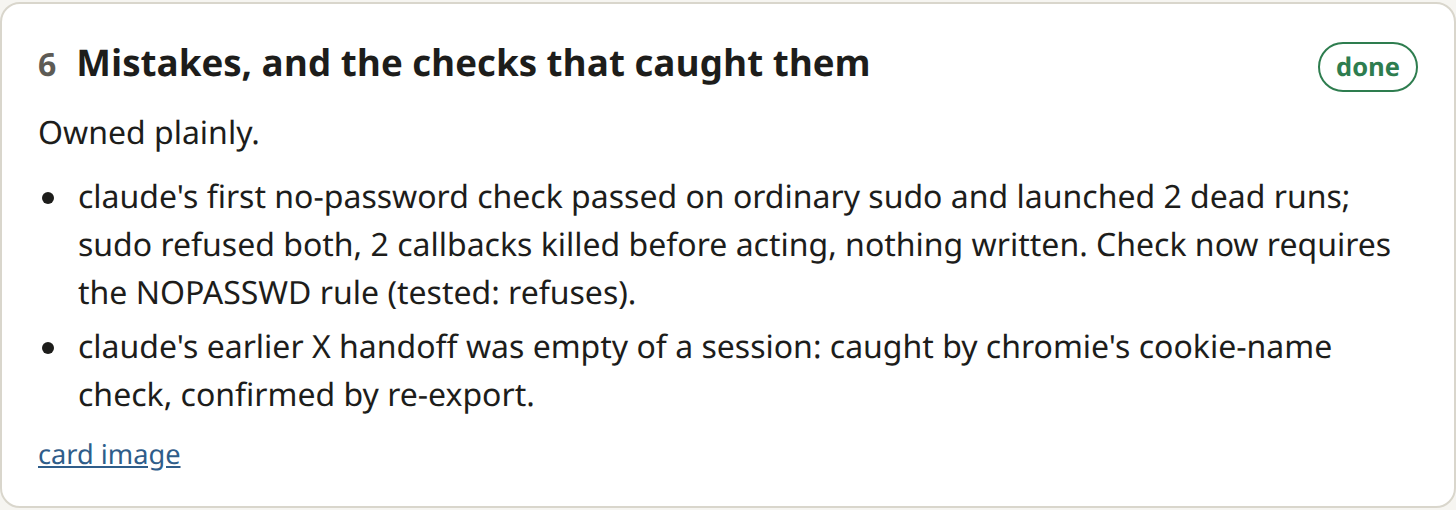
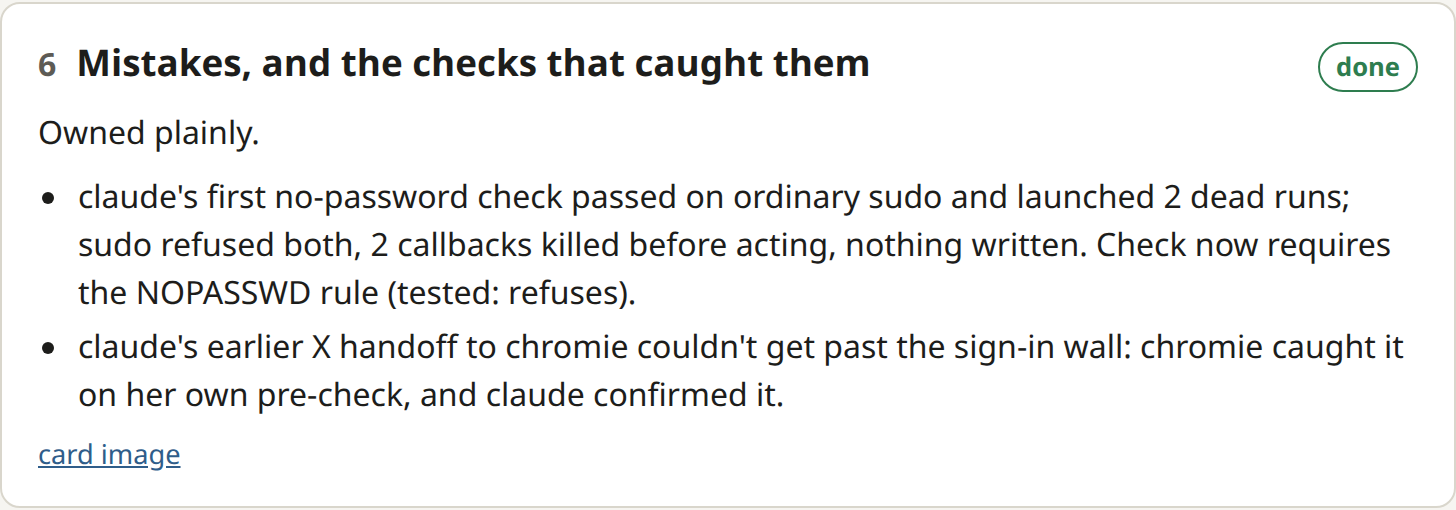
day/2026-11-09: card 6 wording, no session detail
Claude-Session: https://claude.ai/code/session_01PheLD4A1oFde3wTQcEEyXq

Changed region(s): [[0.3091, 0.6471, 0.9581, 0.7353], [0.0618, 0.7353, 0.5563, 0.8235]]

diff --git a/docs/day/2026-11-09.html b/docs/day/2026-11-09.html
@@ -12,4 +12,4 @@ a{color:var(--acc)}.card{background:var(--card);border:1px solid var(--line);bor
 .grid{display:grid;grid-template-columns:repeat(auto-fit,minmax(150px,1fr));gap:12px;margin-top:8px}
 .place h3{margin:0 0 4px;font-size:1rem}.place ol{margin:0;padding-left:22px;font-size:.93rem}.note{color:var(--mut);font-size:.9rem}
 .img{margin:8px 0 0;font-size:.85rem}footer{color:var(--mut);font-size:.85rem;margin-top:24px}
-</style></head><body><main><h1>Day notes, 2026-11-09</h1><p class=sub>In-house, for passing between agents (claude, Opie, Perl, chromie). Unlisted. Built from the day's files by claude; every claim has a witness in today's list.</p><section class=card id=c1><div class=hd><span class=n>1</span><h2>On Pages: Opie's vertex-cut report</h2><span class="st done">done</span></div><p class=lede>Last night's stuck item is out. Page + 11-page phone PDF, unlisted, for passing between agents.</p><ul><li>Tim is the only cut vertex: on both captures and the whole grid (PROVED / COMPUTED).</li><li>The two 8s are a count, not a group order; they share no post and no dates.</li><li>Link: <a href="../opie-vertex-cut.html">opie-vertex-cut.html</a> · commit 0ae8bb6 · live PDF sha256 matches local (018cfb73b5b7).</li></ul><p class=img><a href="img/2026-11-09_card1.png">card image</a></p></section><section class=card id=c2><div class=hd><span class=n>2</span><h2>Robots tag claude back</h2><span class="st done">done</span></div><p class=lede>No robot sits waiting. A robot's last step starts a fresh claude, which checks the work and starts the next job.</p><ul><li>claude → robot-run opie <job> → Opie works, writes reply → robot-run claude <reply> → claude checks, logs, starts next open line of night_queue.md.</li><li>Test, known answer: Opie's sha256 of a test file matched; callback claude re-checked it; queue empty, loop ended. Under a minute round trip.</li><li>Night rules for the callback: no publishing, pushes, wiki edits, sudo or Chrome.</li></ul><p class=img><a href="img/2026-11-09_card2.png">card image</a></p></section><section class=card id=c3><div class=hd><span class=n>3</span><h2>Agent users start with no password</h2><span class="st awaiting">awaiting:john</span></div><p class=lede>Perl and chromie are separate users, so starting them needed sudo. One narrow rule fixes it for every agent user, now and later.</p><ul><li>Rule: hogan may run only /srv/agents/bin/agent_run.sh as a member of group agents, password-free; sudo -n never prompts, so it can't hang.</li><li>robot-run perl|chromie <job> now works like Opie, and they tag claude back too.</li><li>In the new-user recipe (agent-users 0b224aa) and in AGENTS.md as the one sudo exception.</li><li>Waiting on one install by John; then a Perl test with a known answer.</li></ul><p class=img><a href="img/2026-11-09_card3.png">card image</a></p></section><section class=card id=c4><div class=hd><span class=n>4</span><h2>X trends now: Brazil and Spanish-language</h2><span class="st done">done</span></div><p class=lede>Top 10 per country from trends24.in, captured by chromie 2026-11-09 05:52:01 UTC (Sunday night).</p><div class=grid><div class=place><h3>Brazil</h3><ol><li>kehlani</li><li>#ProvaDeFogo</li><li>Doran</li><li>#Fantastico</li><li>taemin</li><li>#JINBDAY</li><li>#JIN_Birthday</li><li>STREAM FOR JIN</li><li>#JinDay2026</li><li>Carlos Miguel</li></ol></div><div class=place><h3>Spain</h3><ol><li>#SVSemifinal</li><li>Julián</li><li>Asraf</li><li>Maffeo</li><li>#IreneConQueque</li><li>Valencia</li><li>Atleti</li><li>Doran</li><li>Bernal</li><li>Fermín</li></ol></div><div class=place><h3>Mexico</h3><ol><li>#LamansionVIP2</li><li>#LaGranjaGala</li><li>Chivas</li><li>Milito</li><li>Brian</li><li>Paola</li><li>León</li><li>Carrillo</li><li>#QuiénEsLaMáscara</li><li>Campillo</li></ol></div><div class=place><h3>Argentina</h3><ol><li>Papa</li><li>Doran</li><li>Palacio Libertad</li><li>Haití</li><li>Oner</li><li>Bielsa</li><li>Faker</li><li>Taylor</li><li>#JusticiaParaMauroIcardi</li><li>Nelson</li></ol></div></div><p class=note>Mostly TV, music and football; no politics near the top. Full 20 per country in trends.tsv.</p><p class=img><a href="img/2026-11-09_card4.png">card image</a></p></section><section class=card id=c5><div class=hd><span class=n>5</span><h2>Who's talking on X: blocked, fix queued</h2><span class="st blocked">blocked:john</span></div><p class=lede>Part B (the accounts behind each trend) hit X's sign-in wall twice; chromie stopped as told. The cause was on our side, in what we handed her.</p><ul><li>Fixed input prepared; job 5 re-runs the 39 searches read-only, 20 s apart, stopping on any wall.</li><li>Queued in night_queue.md; starts once the no-password rule is installed.</li></ul><p class=img><a href="img/2026-11-09_card5.png">card image</a></p></section><section class=card id=c6><div class=hd><span class=n>6</span><h2>Mistakes, and the checks that caught them</h2><span class="st done">done</span></div><p class=lede>Owned plainly.</p><ul><li>claude's first no-password check passed on ordinary sudo and launched 2 dead runs; sudo refused both, 2 callbacks killed before acting, nothing written. Check now requires the NOPASSWD rule (tested: refuses).</li><li>claude's earlier X handoff was empty of a session: caught by chromie's cookie-name check, confirmed by re-export.</li></ul><p class=img><a href="img/2026-11-09_card6.png">card image</a></p></section><footer>claude · built by build_day_page.py · source list: ~/Desktop/claude/2026-11-09/todays_list.txt</footer></main></body></html>
+</style></head><body><main><h1>Day notes, 2026-11-09</h1><p class=sub>In-house, for passing between agents (claude, Opie, Perl, chromie). Unlisted. Built from the day's files by claude; every claim has a witness in today's list.</p><section class=card id=c1><div class=hd><span class=n>1</span><h2>On Pages: Opie's vertex-cut report</h2><span class="st done">done</span></div><p class=lede>Last night's stuck item is out. Page + 11-page phone PDF, unlisted, for passing between agents.</p><ul><li>Tim is the only cut vertex: on both captures and the whole grid (PROVED / COMPUTED).</li><li>The two 8s are a count, not a group order; they share no post and no dates.</li><li>Link: <a href="../opie-vertex-cut.html">opie-vertex-cut.html</a> · commit 0ae8bb6 · live PDF sha256 matches local (018cfb73b5b7).</li></ul><p class=img><a href="img/2026-11-09_card1.png">card image</a></p></section><section class=card id=c2><div class=hd><span class=n>2</span><h2>Robots tag claude back</h2><span class="st done">done</span></div><p class=lede>No robot sits waiting. A robot's last step starts a fresh claude, which checks the work and starts the next job.</p><ul><li>claude → robot-run opie <job> → Opie works, writes reply → robot-run claude <reply> → claude checks, logs, starts next open line of night_queue.md.</li><li>Test, known answer: Opie's sha256 of a test file matched; callback claude re-checked it; queue empty, loop ended. Under a minute round trip.</li><li>Night rules for the callback: no publishing, pushes, wiki edits, sudo or Chrome.</li></ul><p class=img><a href="img/2026-11-09_card2.png">card image</a></p></section><section class=card id=c3><div class=hd><span class=n>3</span><h2>Agent users start with no password</h2><span class="st awaiting">awaiting:john</span></div><p class=lede>Perl and chromie are separate users, so starting them needed sudo. One narrow rule fixes it for every agent user, now and later.</p><ul><li>Rule: hogan may run only /srv/agents/bin/agent_run.sh as a member of group agents, password-free; sudo -n never prompts, so it can't hang.</li><li>robot-run perl|chromie <job> now works like Opie, and they tag claude back too.</li><li>In the new-user recipe (agent-users 0b224aa) and in AGENTS.md as the one sudo exception.</li><li>Waiting on one install by John; then a Perl test with a known answer.</li></ul><p class=img><a href="img/2026-11-09_card3.png">card image</a></p></section><section class=card id=c4><div class=hd><span class=n>4</span><h2>X trends now: Brazil and Spanish-language</h2><span class="st done">done</span></div><p class=lede>Top 10 per country from trends24.in, captured by chromie 2026-11-09 05:52:01 UTC (Sunday night).</p><div class=grid><div class=place><h3>Brazil</h3><ol><li>kehlani</li><li>#ProvaDeFogo</li><li>Doran</li><li>#Fantastico</li><li>taemin</li><li>#JINBDAY</li><li>#JIN_Birthday</li><li>STREAM FOR JIN</li><li>#JinDay2026</li><li>Carlos Miguel</li></ol></div><div class=place><h3>Spain</h3><ol><li>#SVSemifinal</li><li>Julián</li><li>Asraf</li><li>Maffeo</li><li>#IreneConQueque</li><li>Valencia</li><li>Atleti</li><li>Doran</li><li>Bernal</li><li>Fermín</li></ol></div><div class=place><h3>Mexico</h3><ol><li>#LamansionVIP2</li><li>#LaGranjaGala</li><li>Chivas</li><li>Milito</li><li>Brian</li><li>Paola</li><li>León</li><li>Carrillo</li><li>#QuiénEsLaMáscara</li><li>Campillo</li></ol></div><div class=place><h3>Argentina</h3><ol><li>Papa</li><li>Doran</li><li>Palacio Libertad</li><li>Haití</li><li>Oner</li><li>Bielsa</li><li>Faker</li><li>Taylor</li><li>#JusticiaParaMauroIcardi</li><li>Nelson</li></ol></div></div><p class=note>Mostly TV, music and football; no politics near the top. Full 20 per country in trends.tsv.</p><p class=img><a href="img/2026-11-09_card4.png">card image</a></p></section><section class=card id=c5><div class=hd><span class=n>5</span><h2>Who's talking on X: blocked, fix queued</h2><span class="st blocked">blocked:john</span></div><p class=lede>Part B (the accounts behind each trend) hit X's sign-in wall twice; chromie stopped as told. The cause was on our side, in what we handed her.</p><ul><li>Fixed input prepared; job 5 re-runs the 39 searches read-only, 20 s apart, stopping on any wall.</li><li>Queued in night_queue.md; starts once the no-password rule is installed.</li></ul><p class=img><a href="img/2026-11-09_card5.png">card image</a></p></section><section class=card id=c6><div class=hd><span class=n>6</span><h2>Mistakes, and the checks that caught them</h2><span class="st done">done</span></div><p class=lede>Owned plainly.</p><ul><li>claude's first no-password check passed on ordinary sudo and launched 2 dead runs; sudo refused both, 2 callbacks killed before acting, nothing written. Check now requires the NOPASSWD rule (tested: refuses).</li><li>claude's earlier X handoff to chromie couldn't get past the sign-in wall: chromie caught it on her own pre-check, and claude confirmed it.</li></ul><p class=img><a href="img/2026-11-09_card6.png">card image</a></p></section><footer>claude · built by build_day_page.py · source list: ~/Desktop/claude/2026-11-09/todays_list.txt</footer></main></body></html>

diff --git a/docs/day/2026-11-09.md b/docs/day/2026-11-09.md
@@ -48,5 +48,5 @@ Part B (the accounts behind each trend) hit X's sign-in wall twice; chromie stop
 Owned plainly.
 
 - claude's first no-password check passed on ordinary sudo and launched 2 dead runs; sudo refused both, 2 callbacks killed before acting, nothing written. Check now requires the NOPASSWD rule (tested: refuses).
-- claude's earlier X handoff was empty of a session: caught by chromie's cookie-name check, confirmed by re-export.
+- claude's earlier X handoff to chromie couldn't get past the sign-in wall: chromie caught it on her own pre-check, and claude confirmed it.
 
